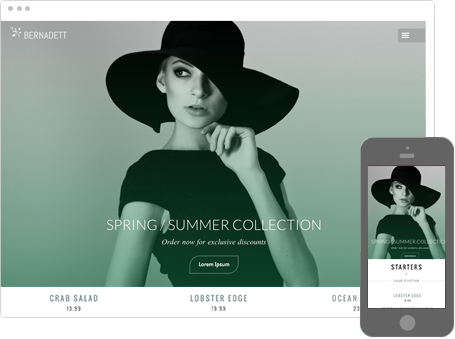
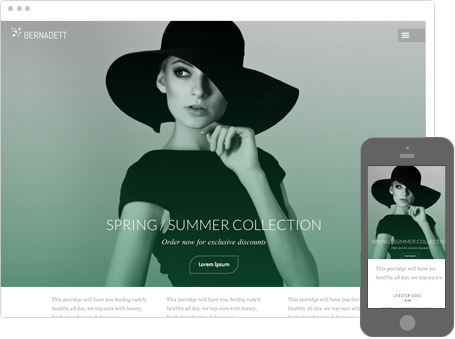
added fixes

diff --git a/stylesheet.less b/stylesheet.less
@@ -323,8 +323,8 @@ body.menu-active .bk-nav {
 			position: relative;
 			top: 30px;
 			h2 {
-				font-size: bkscale(@font-swatch1-font-size, 0.62);
-				line-height: bkscale(@font-swatch1-line-height, 0.68);
+				font-size: bkscale(@font-swatch8-font-size, 0.62);
+				line-height: bkscale(@font-swatch8-line-height, 0.68);
 				padding-bottom: 8px;
 			}
 			h3 {
@@ -340,14 +340,14 @@ body.menu-active .bk-nav {
 
 	}
 	h2 {
-		font-family: @font-swatch1-font-family;
-		font-size: @font-swatch1-font-size;
-		font-weight: @font-swatch1-font-weight;
-		line-height: @font-swatch1-line-height;
+		font-family: @font-swatch8-font-family;
+		font-size: @font-swatch8-font-size;
+		font-weight: @font-swatch8-font-weight;
+		line-height: @font-swatch8-line-height;
 		padding-bottom: 2px;
 		@media @mobile {
-			font-size: bkscale(@font-swatch1-font-size, 0.72);
-			line-height: bkscale(@font-swatch1-line-height, 0.78);
+			font-size: bkscale(@font-swatch8-font-size, 0.72);
+			line-height: bkscale(@font-swatch8-line-height, 0.78);
 		}
 		@media only screen and (max-width: 420px) {
 			font-size: bkscale(@font-swatch1-font-size, 0.7);
@@ -675,12 +675,11 @@ body.menu-active .bk-nav {
 /* 10. Forms & Buttons */
 
 .widget.button {
-	border-radius: 10px;
 	padding-top: 10px 0;
 }
 
 .widget.button button .widget.dropbox button {
-	border-radius: 10px;
+	border-radius: 0;
 }
 
 input, textarea {
@@ -718,7 +717,8 @@ input, textarea {
             }
             fieldset input {
                 background-color: white;
-                border-bottom: 1px solid fade(@color-swatch5, 25%);
+                border: 1px solid fade(@color-swatch5, 25%);
+                border-radius: 4px;
                 text-indent: 1px;
             }
         }
@@ -769,10 +769,10 @@ input, textarea {
 /* 11. Misc Elements */
 
 h5 {
-	font-family: @font-swatch1-font-family;
-	font-size: @font-swatch2-font-size;
-	font-weight: @font-swatch2-font-weight;
-	line-height: @font-swatch2-line-height;
+	font-family: @font-swatch5-font-family;
+	font-size: @font-swatch5-font-size;
+	font-weight: @font-swatch5-font-weight;
+	line-height: @font-swatch5-line-height;
 }
 
 hr.line {
@@ -781,7 +781,8 @@ hr.line {
 
 
 
-.widget.socialicons, .widget.profile .bk-profile-socialicons {
+.widget.socialicons, .widget.profile .bk-profile-socialicons,
+.bk-profile-socialicons {
 	margin: 1em 0 1em;
 	text-align: center;
     span a {
